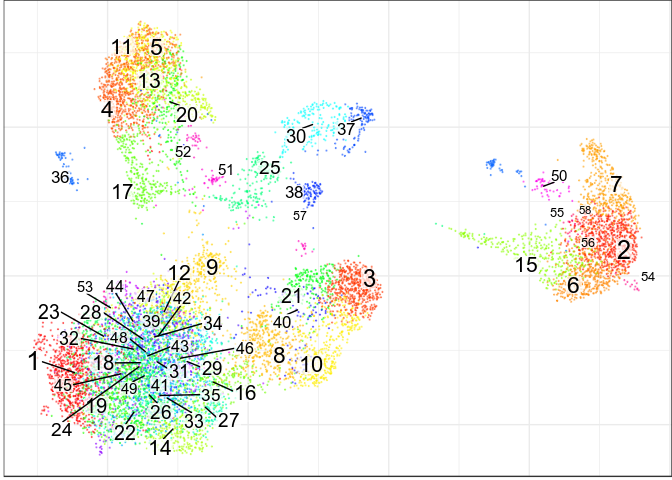
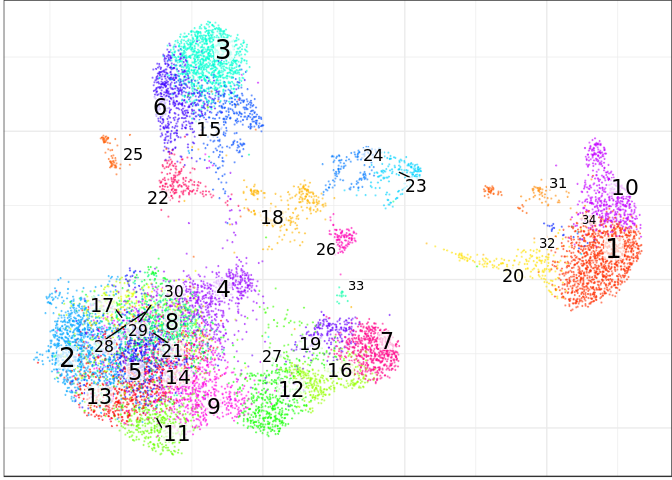
Compiled vignettes

diff --git a/vignettes/conos_bm_cb.md b/vignettes/conos_bm_cb.md
@@ -12,6 +12,7 @@ library(pagoda2)
 library(dplyr)
 library(ggplot2)
 library(pbapply)
+library(cowplot)
 
 theme_set(theme_bw())
 ```
@@ -21,7 +22,7 @@ theme_set(theme_bw())
 Let’s load and pre-process data:
 
 ``` r
-panel <- readRDS(file.path(find.package('conos'),'extdata','panel.rds'))
+panel <- readRDS(system.file("extdata", "panel.rds", package="conos"))
 panel_preprocessed <- lapply(panel, basicP2proc, n.cores=4, min.cells.per.gene=0, 
                              n.odgenes=2e3, get.largevis=FALSE, make.geneknn=FALSE)
 #> 3000 cells, 33694 genes; normalizing ... using plain model winsorizing ... log scale ... done.
@@ -51,39 +52,40 @@ con$buildGraph()
 #> inter-sample links using  mNN   done
 #> local pairs local pairs  done
 #> building graph ..done
-con$findCommunities(method=conos::leiden.community, resolution=5)
+con$findCommunities(method=conos::leiden.community, resolution=3)
 con$embedGraph(method="UMAP", min.dist=1, spread=2, n.cores=30)
 #> Convert graph to adjacency list...
 #> Done
 #> Estimate nearest neighbors and commute times...
-#> Estimating hitting distances: 11:35:42.
+#> Estimating hitting distances: 14:49:17.
 #> Done.
-#> Estimating commute distances: 11:35:44.
-#> Hashing adjacency list: 11:35:44.
+#> Estimating commute distances: 14:49:19.
+#> Hashing adjacency list: 14:49:19.
 #> Done.
-#> Estimating distances: 11:35:45.
+#> Estimating distances: 14:49:20.
 #> Done
 #> Done.
-#> All done!: 11:35:47.
+#> All done!: 14:49:22.
 #> Done
 #> Estimate UMAP embedding...
-#> 11:35:47 UMAP embedding parameters a = 0.09172 b = 1.334
-#> 11:35:47 Read 12000 rows and found 1 numeric columns
-#> 11:35:47 Commencing smooth kNN distance calibration using 30 threads
-#> 11:35:48 Initializing from normalized Laplacian + noise
-#> 11:35:49 Commencing optimization for 1000 epochs, with 321062 positive edges using 30 threads
-#> 11:35:56 Optimization finished
+#> 14:49:22 UMAP embedding parameters a = 0.09172 b = 1.334
+#> 14:49:22 Read 12000 rows and found 1 numeric columns
+#> 14:49:22 Commencing smooth kNN distance calibration using 30 threads
+#> 14:49:23 Initializing from normalized Laplacian + noise
+#> 14:49:24 Commencing optimization for 1000 epochs, with 321062 positive edges using 30 threads
+#> 14:49:31 Optimization finished
 #> Done
 
-con$plotGraph(size=0.2)
+con$plotGraph(size=0.2, shuffle.colors=T)
 ```
 
 ![](conos_bm_cb_files/figure-gfm/unnamed-chunk-3-1.png)<!-- -->
 
-Prepare data for annotation:
+Prepare data for
+annotation:
 
 ``` r
-marker_path <- "../markers/bm_cb.md"
+marker_path <- system.file("extdata", "bm_cb.md", package = "CellAnnotatoR")
 markers <- parseMarkerFile(marker_path) # We don't want to re-read marker inside each step of lapply
 clf_datas <- lapply(con$samples, function(p2) 
   getClassificationData(Matrix::t(p2$misc$rawCounts), markers))
@@ -102,7 +104,13 @@ ann_by_dataset <- pbmapply(function(cd, ms, p2)
   setNames(names(clf_datas))
 
 all_annotations <- lapply(ann_by_dataset, function(an) an$annotation$l1) %>% Reduce(c, .)
-con$plotGraph(groups=all_annotations, size=0.2, plot.na=F)
+all_annotations_filt <- lapply(ann_by_dataset, function(an) an$annotation.filt$l1) %>% Reduce(c, .)
+
+plot_grid(
+  con$plotGraph(groups=all_annotations, size=0.2),
+  con$plotGraph(groups=all_annotations_filt, size=0.2), 
+  labels=c("All", "Filtered")
+)
 ```
 
 ![](conos_bm_cb_files/figure-gfm/unnamed-chunk-5-1.png)<!-- -->
@@ -115,7 +123,12 @@ annotation on the whole graph:
 ``` r
 all_score_info <- mergeScoreInfos(score_infos, verbose=T)
 ann_by_level <- assignCellsByScores(con$graph, score.info=all_score_info, clf.data=clf_datas[[1]])
-con$plotGraph(groups=ann_by_level$annotation$l1, size=0.2, plot.na=F)
+
+plot_grid(
+  con$plotGraph(groups=ann_by_level$annotation$l1, size=0.2),
+  con$plotGraph(groups=ann_by_level$annotation.filt$l1, size=0.2), 
+  labels=c("All", "Filtered")
+)
 ```
 
 ![](conos_bm_cb_files/figure-gfm/unnamed-chunk-6-1.png)<!-- -->
@@ -124,22 +137,27 @@ To further deal with noise, we can use clustering information:
 
 ``` r
 clusters <- con$clusters$leiden$groups
-annotation <- assignCellsByScores(con$graph, score.info=all_score_info, clf.data=clf_datas[[1]], 
-                                  clusters=clusters)$annotation$l1
-con$plotGraph(groups=annotation, size=0.2)
+ann_by_level <- assignCellsByScores(con$graph, score.info=all_score_info, clf.data=clf_datas[[1]], 
+                                clusters=clusters)
+
+plot_grid(
+  con$plotGraph(groups=ann_by_level$annotation$l1, size=0.2),
+  con$plotGraph(groups=ann_by_level$annotation.filt$l1, size=0.2), 
+  labels=c("All", "Filtered")
+)
 ```
 
 ![](conos_bm_cb_files/figure-gfm/unnamed-chunk-7-1.png)<!-- -->
 
 In the current example, clustering resolution is too low to separate all
 subpopulatons, which lead to lack of CLP and DC populations. Let’s
-increase
-resolution:
+increase resolution:
 
 ``` r
-target_clusters <- clusters[names(annotation)[annotation %in% c("Progenitors", "Plasma")]] %>% 
+ann <- ann_by_level$annotation$l1
+target_clusters <- clusters[names(ann)[ann %in% c("Progenitors", "Plasma")]] %>% 
   as.character() %>% unique()
-clusters_inc <- findSubcommunities(con, target_clusters, groups=clusters, resolution=2)
+clusters_inc <- findSubcommunities(con, target_clusters, groups=clusters, resolution=1)
 con$plotGraph(groups=clusters_inc, size=0.2, shuffle.colors=T)
 ```
 
@@ -149,9 +167,14 @@ And now we can re-run
 annotation:
 
 ``` r
-annotation <- assignCellsByScores(con$graph, score.info=all_score_info, clf.data=clf_datas[[1]], 
-                                  clusters=clusters_inc)$annotation$l1
-con$plotGraph(groups=annotation, size=0.2)
+ann_by_level <- assignCellsByScores(con$graph, score.info=all_score_info, clf.data=clf_datas[[1]], 
+                                clusters=clusters_inc)
+
+plot_grid(
+  con$plotGraph(groups=ann_by_level$annotation$l1, size=0.2),
+  con$plotGraph(groups=ann_by_level$annotation.filt$l1, size=0.2), 
+  labels=c("All", "Filtered")
+)
 ```
 
 ![](conos_bm_cb_files/figure-gfm/unnamed-chunk-9-1.png)<!-- -->

diff --git a/vignettes/pagoda_bm.md b/vignettes/pagoda_bm.md
@@ -1,0 +1,91 @@
+Annotation of BM data using Pagoda 2
+================
+
+This vignette shows annotation of the first BM dataset from the [Conos
+tutorial](https://github.com/hms-dbmi/conos/blob/master/vignettes/walkthrough.md)
+
+``` r
+library(CellAnnotatoR)
+library(pagoda2)
+library(dplyr)
+library(ggplot2)
+library(pbapply)
+library(magrittr)
+
+theme_set(theme_bw())
+```
+
+## Pre-processing
+
+Let’s load and pre-process
+data:
+
+``` r
+cm <- system.file("extdata", "panel.rds", package="conos") %>% readRDS() %>% .[[1]]
+
+p2 <- basicP2proc(cm, n.cores=4, min.cells.per.gene=0, n.odgenes=2e3, 
+                  get.largevis=FALSE, make.geneknn=FALSE, get.tsne=T)
+#> 3000 cells, 33694 genes; normalizing ... using plain model winsorizing ... log scale ... done.
+#> calculating variance fit ... using gam 171 overdispersed genes ... 171persisting ... done.
+#> running PCA using 2000 OD genes .... done
+#> running tSNE using 4 cores:
+p2$getKnnClusters(type="PCA", method=conos::leiden.community, n.iterations=10, 
+                  resolution=6, name="leiden")
+```
+
+Here we use such large resulution because it will be used for the
+annotation refinement: for high-resolution annotation, clustering
+resolution must be high as well.
+
+``` r
+clusters <- p2$clusters$PCA$leiden
+conos::embeddingPlot(p2$embeddings$PCA$tSNE, groups=clusters, shuffle.colors=T)
+```
+
+![](pagoda_bm_files/figure-gfm/unnamed-chunk-3-1.png)<!-- -->
+
+Prepare data for
+annotation:
+
+``` r
+marker_path <- system.file("extdata", "bm_cb.md", package = "CellAnnotatoR")
+clf_data <- getClassificationData(cm, marker_path)
+```
+
+## Annotation
+
+Now we can run annotation:
+
+``` r
+ann_by_level <- assignCellsByScores(p2$graphs$PCA, clf.data=clf_data)
+cowplot::plot_grid(
+  conos::embeddingPlot(p2$embeddings$PCA$tSNE, groups=ann_by_level$annotation$l1),
+  conos::embeddingPlot(p2$embeddings$PCA$tSNE, groups=ann_by_level$annotation.filt$l1),
+  nrow=1
+)
+```
+
+![](pagoda_bm_files/figure-gfm/unnamed-chunk-5-1.png)<!-- -->
+
+To improve quality we can also pass clusters to the annotation
+procedure:
+
+``` r
+ann_by_level <- assignCellsByScores(p2$graphs$PCA, clf.data=clf_data, clusters=clusters)
+cowplot::plot_grid(
+  conos::embeddingPlot(p2$embeddings$PCA$tSNE, groups=ann_by_level$annotation$l1, shuffle.colors=T),
+  conos::embeddingPlot(p2$embeddings$PCA$tSNE, groups=ann_by_level$annotation.filt$l1, shuffle.colors=T),
+  nrow=1
+)
+```
+
+![](pagoda_bm_files/figure-gfm/unnamed-chunk-6-1.png)<!-- -->
+
+Finally, to validate results we can plot the
+markers:
+
+``` r
+plotSubtypeMarkers(p2$embeddings$PCA$tSNE, p2$counts, clf.data=clf_data, n.col=3, size=0.2, build.panel=T)
+```
+
+![](pagoda_bm_files/figure-gfm/unnamed-chunk-7-1.png)<!-- -->
